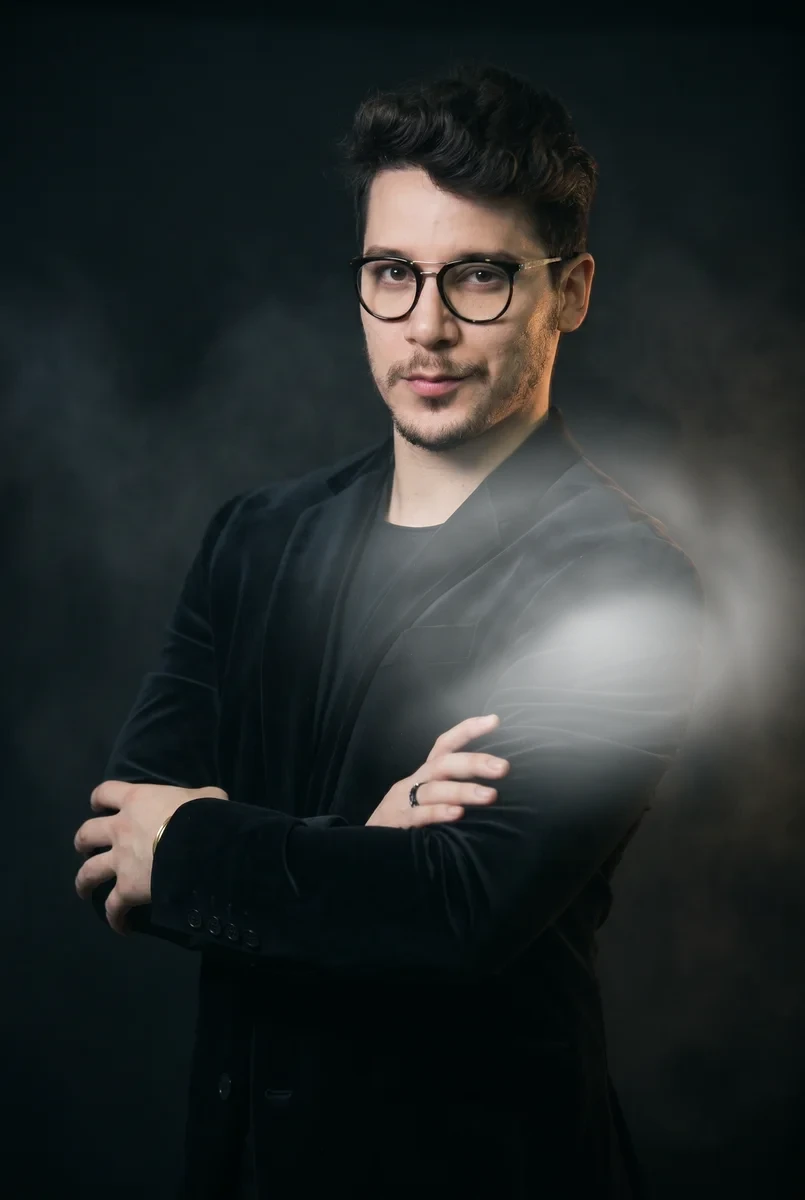
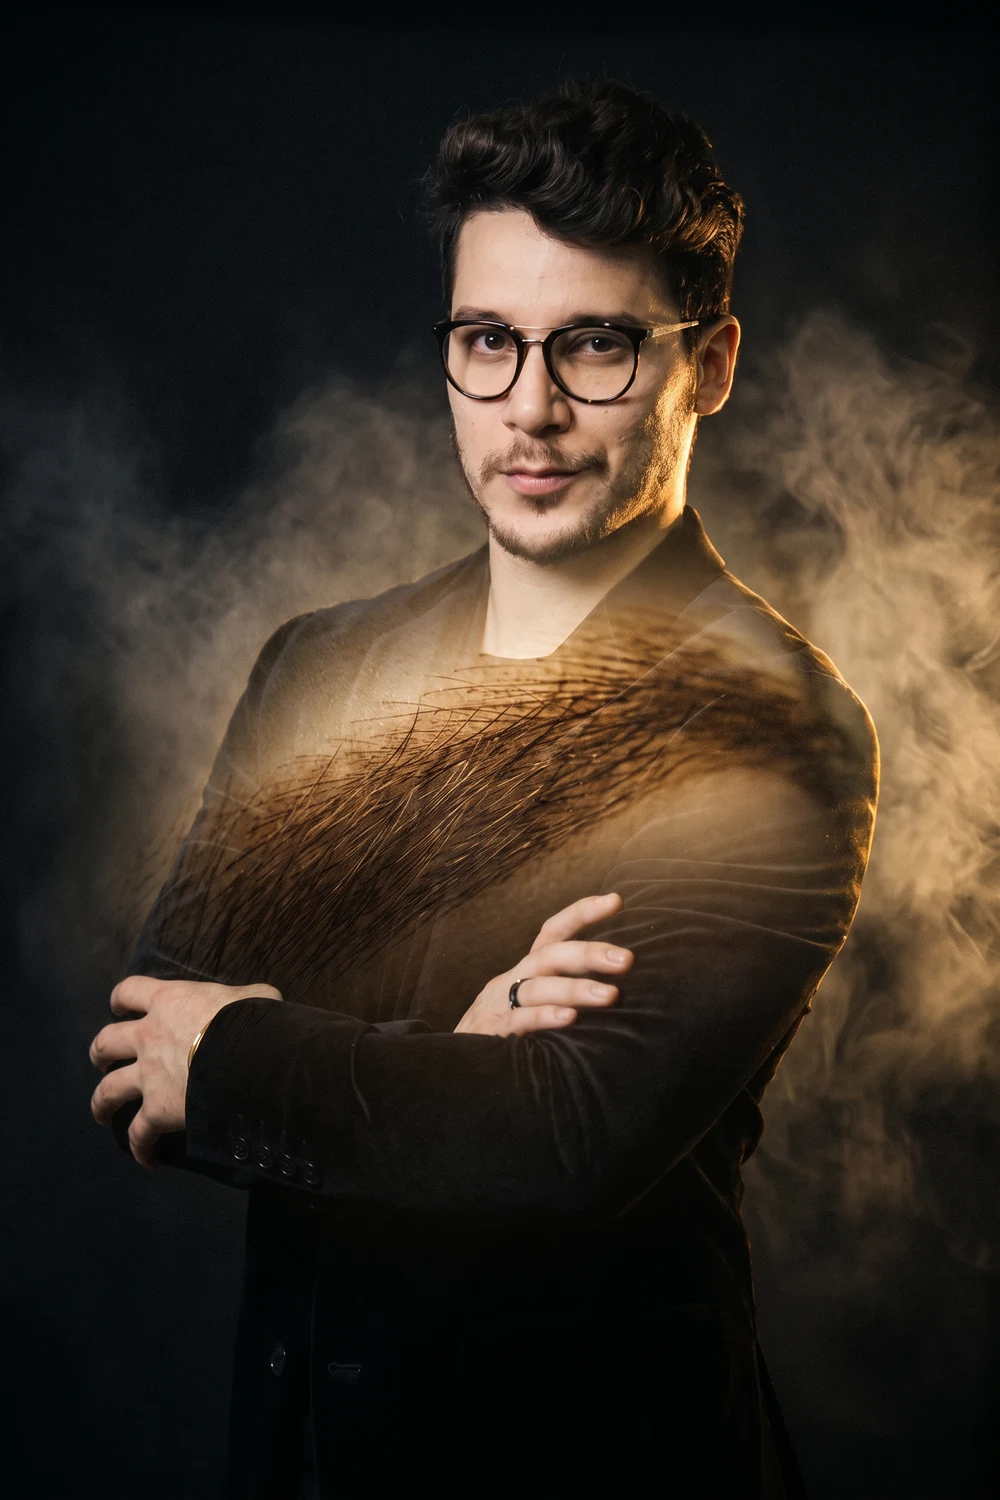
Shadow PRO: reformula dobra bio como capa editorial
- Retrato dupla-exposicao (Higgsfield) sangrando pela direita, mascarado no escuro
- Texto a esquerda: headline serif, pull-quote italico, faixa de credenciais, assinatura James Olaya + role, CTA
- Quebra o padrao 2-colunas/centralizado; mantem DNA (dourado+Cormorant+foto real)
- Mobile: foto no topo mesclando no escuro + texto centralizado

diff --git a/lp-html/metodo-shadow-pro-2.html b/lp-html/metodo-shadow-pro-2.html
@@ -338,16 +338,27 @@ h1,h2,h3{font-family:'Cormorant Garamond',Georgia,serif;font-weight:700;line-hei
   .split__list{margin-top:16px;padding-top:0;}
 }
 /* ===== BIO ===== */
-.bio{position:relative;overflow:hidden;background:linear-gradient(180deg,#0a090c 0%,transparent 13%,transparent 87%,#0a090c 100%),radial-gradient(110% 100% at 82% 20%,#241a10,#0d0a10 55%,#0a090c);}
-.bio__in{display:grid;grid-template-columns:1fr .9fr;gap:clamp(30px,5vw,70px);align-items:center;}
+.bio{position:relative;overflow:hidden;min-height:min(94vh,860px);display:flex;align-items:center;padding:100px 0;background:linear-gradient(180deg,#0a090c 0%,transparent 12%,transparent 88%,#0a090c 100%),radial-gradient(120% 100% at 76% 34%,#241a10,#0d0a10 52%,#0a090c);}
+/* retrato dupla-exposição sangrando pela direita */
+.bio::after{content:"";position:absolute;top:0;bottom:0;right:0;width:min(60%,780px);background:url("/lp/shadow-pro/james-dx.webp") center 12% / cover no-repeat;opacity:.98;-webkit-mask-image:linear-gradient(90deg,transparent 0,#000 42%);mask-image:linear-gradient(90deg,transparent 0,#000 42%);z-index:0;}
+.bio::before{content:"";position:absolute;inset:0;z-index:1;pointer-events:none;background:linear-gradient(90deg,#0a090c 28%,rgba(10,9,12,.5) 48%,transparent 68%),linear-gradient(180deg,transparent 62%,rgba(10,9,12,.9));}
+.bio__in{position:relative;z-index:2;width:100%;}
+.bio__box{max-width:526px;text-align:left;}
+.bio__box .eyebrow{margin-bottom:18px;}
+.bio__box .sec-title{margin-bottom:20px;}
 .bio__txt p{color:#d8d1c4;font-size:clamp(15px,1.7vw,18px);line-height:1.6;margin-bottom:16px;}
-.bio__txt .kicker{display:block;color:var(--muted);font-size:clamp(14px,1.5vw,16px);margin-bottom:12px;}
-.bio__txt p.big{font-family:'Cormorant Garamond',serif;font-size:clamp(21px,2.6vw,30px);color:#fff;font-style:italic;line-height:1.32;position:relative;padding-left:22px;}
+.bio__txt p.big{font-family:'Cormorant Garamond',serif;font-size:clamp(21px,2.7vw,30px);color:#fff;font-style:italic;line-height:1.34;position:relative;padding-left:22px;margin-bottom:30px;}
 .bio__txt p.big::before{content:"";position:absolute;left:0;top:6px;bottom:6px;width:2px;background:linear-gradient(180deg,var(--gold2),transparent);}
-.bio__ph{position:relative;justify-self:center;}
-.bio__ph::before{content:"";position:absolute;inset:-10% -8%;border-radius:24px;background:radial-gradient(closest-side,rgba(217,180,88,.32),transparent 72%);filter:blur(34px);}
-.bio__ph img{position:relative;border-radius:16px;width:100%;max-width:470px;box-shadow:0 34px 80px rgba(0,0,0,.62),0 0 0 1px rgba(217,180,88,.18);}
-.bio__ph figcaption{position:absolute;left:16px;bottom:14px;z-index:2;font-family:ui-monospace,'SF Mono',Menlo,monospace;font-size:10px;letter-spacing:.14em;text-transform:uppercase;color:var(--gold2);background:rgba(10,9,12,.5);backdrop-filter:blur(4px);border:1px solid rgba(217,180,88,.35);border-radius:999px;padding:6px 12px;}
+/* faixa de credenciais editorial */
+.bio__creds{display:flex;gap:26px;flex-wrap:wrap;margin:0 0 30px;padding:20px 0 0;border-top:1px solid rgba(217,180,88,.16);}
+.bio__creds .c{display:flex;flex-direction:column;gap:2px;}
+.bio__creds .c b{font-family:'Cormorant Garamond',serif;font-size:clamp(26px,3vw,34px);font-weight:700;color:var(--gold2);line-height:1;}
+.bio__creds .c span{font-family:'Poppins',sans-serif;font-size:11px;letter-spacing:.12em;text-transform:uppercase;color:var(--muted);}
+/* assinatura */
+.bio__sign{display:flex;align-items:baseline;gap:14px;margin:0 0 30px;}
+.bio__sign .name{font-family:'Cormorant Garamond',serif;font-style:italic;font-weight:600;font-size:clamp(30px,4vw,46px);color:#fff;line-height:1;letter-spacing:.01em;}
+.bio__sign .role{font-family:ui-monospace,'SF Mono',Menlo,monospace;font-size:10.5px;letter-spacing:.16em;text-transform:uppercase;color:var(--gold);}
+.bio__cap{position:absolute;right:22px;bottom:20px;z-index:3;font-family:ui-monospace,'SF Mono',Menlo,monospace;font-size:10px;letter-spacing:.14em;text-transform:uppercase;color:var(--gold2);background:rgba(10,9,12,.5);backdrop-filter:blur(4px);border:1px solid rgba(217,180,88,.35);border-radius:999px;padding:6px 12px;}
 /* ===== CERT ===== */
 .cert{display:grid;grid-template-columns:.9fr 1.1fr;gap:clamp(28px,4vw,54px);align-items:center;}
 .cert__card{aspect-ratio:1.4/1;border-radius:16px;border:1px solid var(--line);background:linear-gradient(140deg,#171320,#1e1828);position:relative;overflow:hidden;display:flex;flex-direction:column;align-items:center;justify-content:center;text-align:center;padding:30px;box-shadow:0 26px 60px rgba(0,0,0,.5);}
@@ -452,8 +463,17 @@ h1,h2,h3{font-family:'Cormorant Garamond',Georgia,serif;font-weight:700;line-hei
   .hero::before{background:linear-gradient(180deg,rgba(10,9,12,.55),rgba(10,9,12,.88) 60%);}
   .grid3,.probs{grid-template-columns:1fr;}
   .pillars,.forwho{grid-template-columns:1fr;}
-  .bio__in{grid-template-columns:1fr;text-align:center;}
-  .bio__ph{order:-1;}
+  .bio{min-height:0;padding:0 0 60px;display:block;}
+  .bio::after{top:0;left:0;right:0;width:100%;height:360px;background-position:center 8%;-webkit-mask-image:linear-gradient(180deg,#000 52%,transparent 96%);mask-image:linear-gradient(180deg,#000 52%,transparent 96%);opacity:1;}
+  .bio::before{background:linear-gradient(180deg,transparent 44%,rgba(10,9,12,.7) 66%,#0a090c 82%);}
+  .bio__in{padding-top:300px;}
+  .bio__box{max-width:none;text-align:center;}
+  .bio__box .eyebrow{margin-left:auto;margin-right:auto;}
+  .bio__txt p.big{padding-left:0;text-align:center;}
+  .bio__txt p.big::before{display:none;}
+  .bio__creds{justify-content:center;}
+  .bio__sign{justify-content:center;}
+  .bio__cap{display:none;}
   .cert{grid-template-columns:1fr;}
   .guar{grid-template-columns:1fr;text-align:center;justify-items:center;}
   .gallery{grid-template-columns:repeat(2,1fr);}
@@ -681,18 +701,23 @@ h1,h2,h3{font-family:'Cormorant Garamond',Georgia,serif;font-weight:700;line-hei
 <!-- ===== BIO JAMES ===== -->
 <section class="sec bio">
   <div class="wrap bio__in">
-    <div class="bio__txt">
+    <div class="bio__box bio__txt">
       <span class="eyebrow">Seu professor</span>
-      <h2 class="sec-title" style="margin-bottom:18px;">Aprenda com quem <span class="gold">elevou o padrão</span> do mercado</h2>
-      <span class="kicker">O ponto aqui é simples:</span>
-      <p class="big">Quando você domina degradê, saturação e acabamento, você para de depender de sorte e passa a entregar um padrão que faz a cliente pensar: "É esse resultado que eu quero."</p>
-      <div style="margin-top:26px;"><a class="cta" href="#oferta">Quero aprender com o James</a></div>
+      <h2 class="sec-title">Aprenda com quem <span class="gold">elevou o padrão</span> do mercado</h2>
+      <p class="big">Quando você domina degradê, saturação e acabamento, você para de depender de sorte — e passa a entregar o resultado que faz a cliente pensar: "É <em>exatamente</em> isso que eu queria."</p>
+      <div class="bio__creds">
+        <div class="c"><b>+10</b><span>anos de agulha</span></div>
+        <div class="c"><b>+3.000</b><span>alunas formadas</span></div>
+        <div class="c"><b>Shadow</b><span>degradê autoral</span></div>
+      </div>
+      <div class="bio__sign">
+        <span class="name">James Olaya</span>
+        <span class="role">Fundador · Método Shadow PRO</span>
+      </div>
+      <a class="cta" href="#oferta">Quero aprender com o James</a>
     </div>
-    <figure class="bio__ph">
-      <img src="/lp/shadow-pro/james-dx.webp" alt="James Olaya — o shadow que emerge da técnica">
-      <figcaption>James Olaya · o shadow é técnica</figcaption>
-    </figure>
   </div>
+  <span class="bio__cap">James Olaya · o shadow é técnica</span>
 </section>
 
 <!-- ===== CERTIFICADO ===== -->
